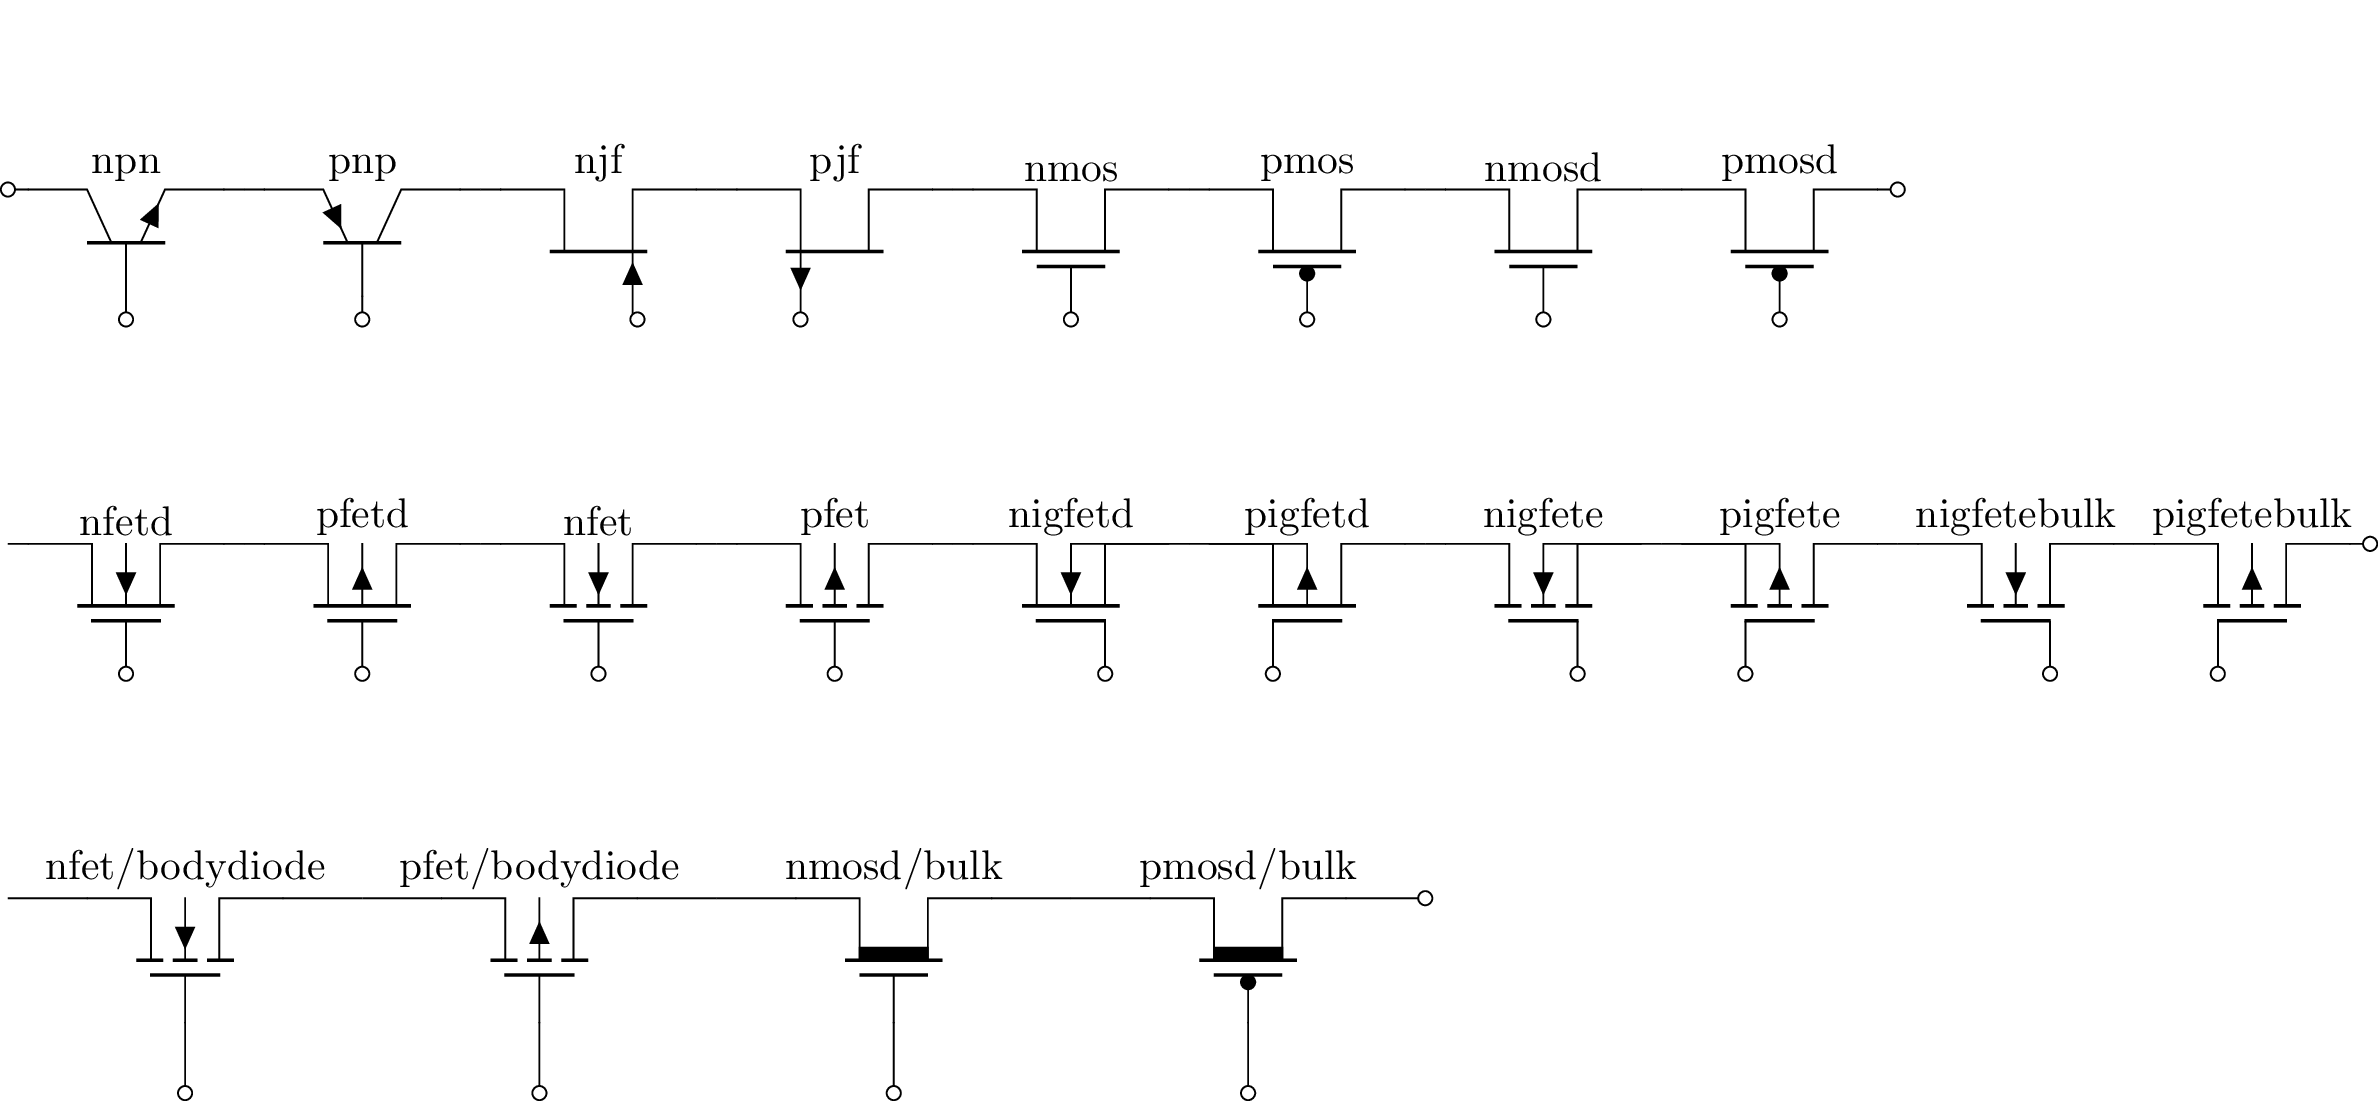
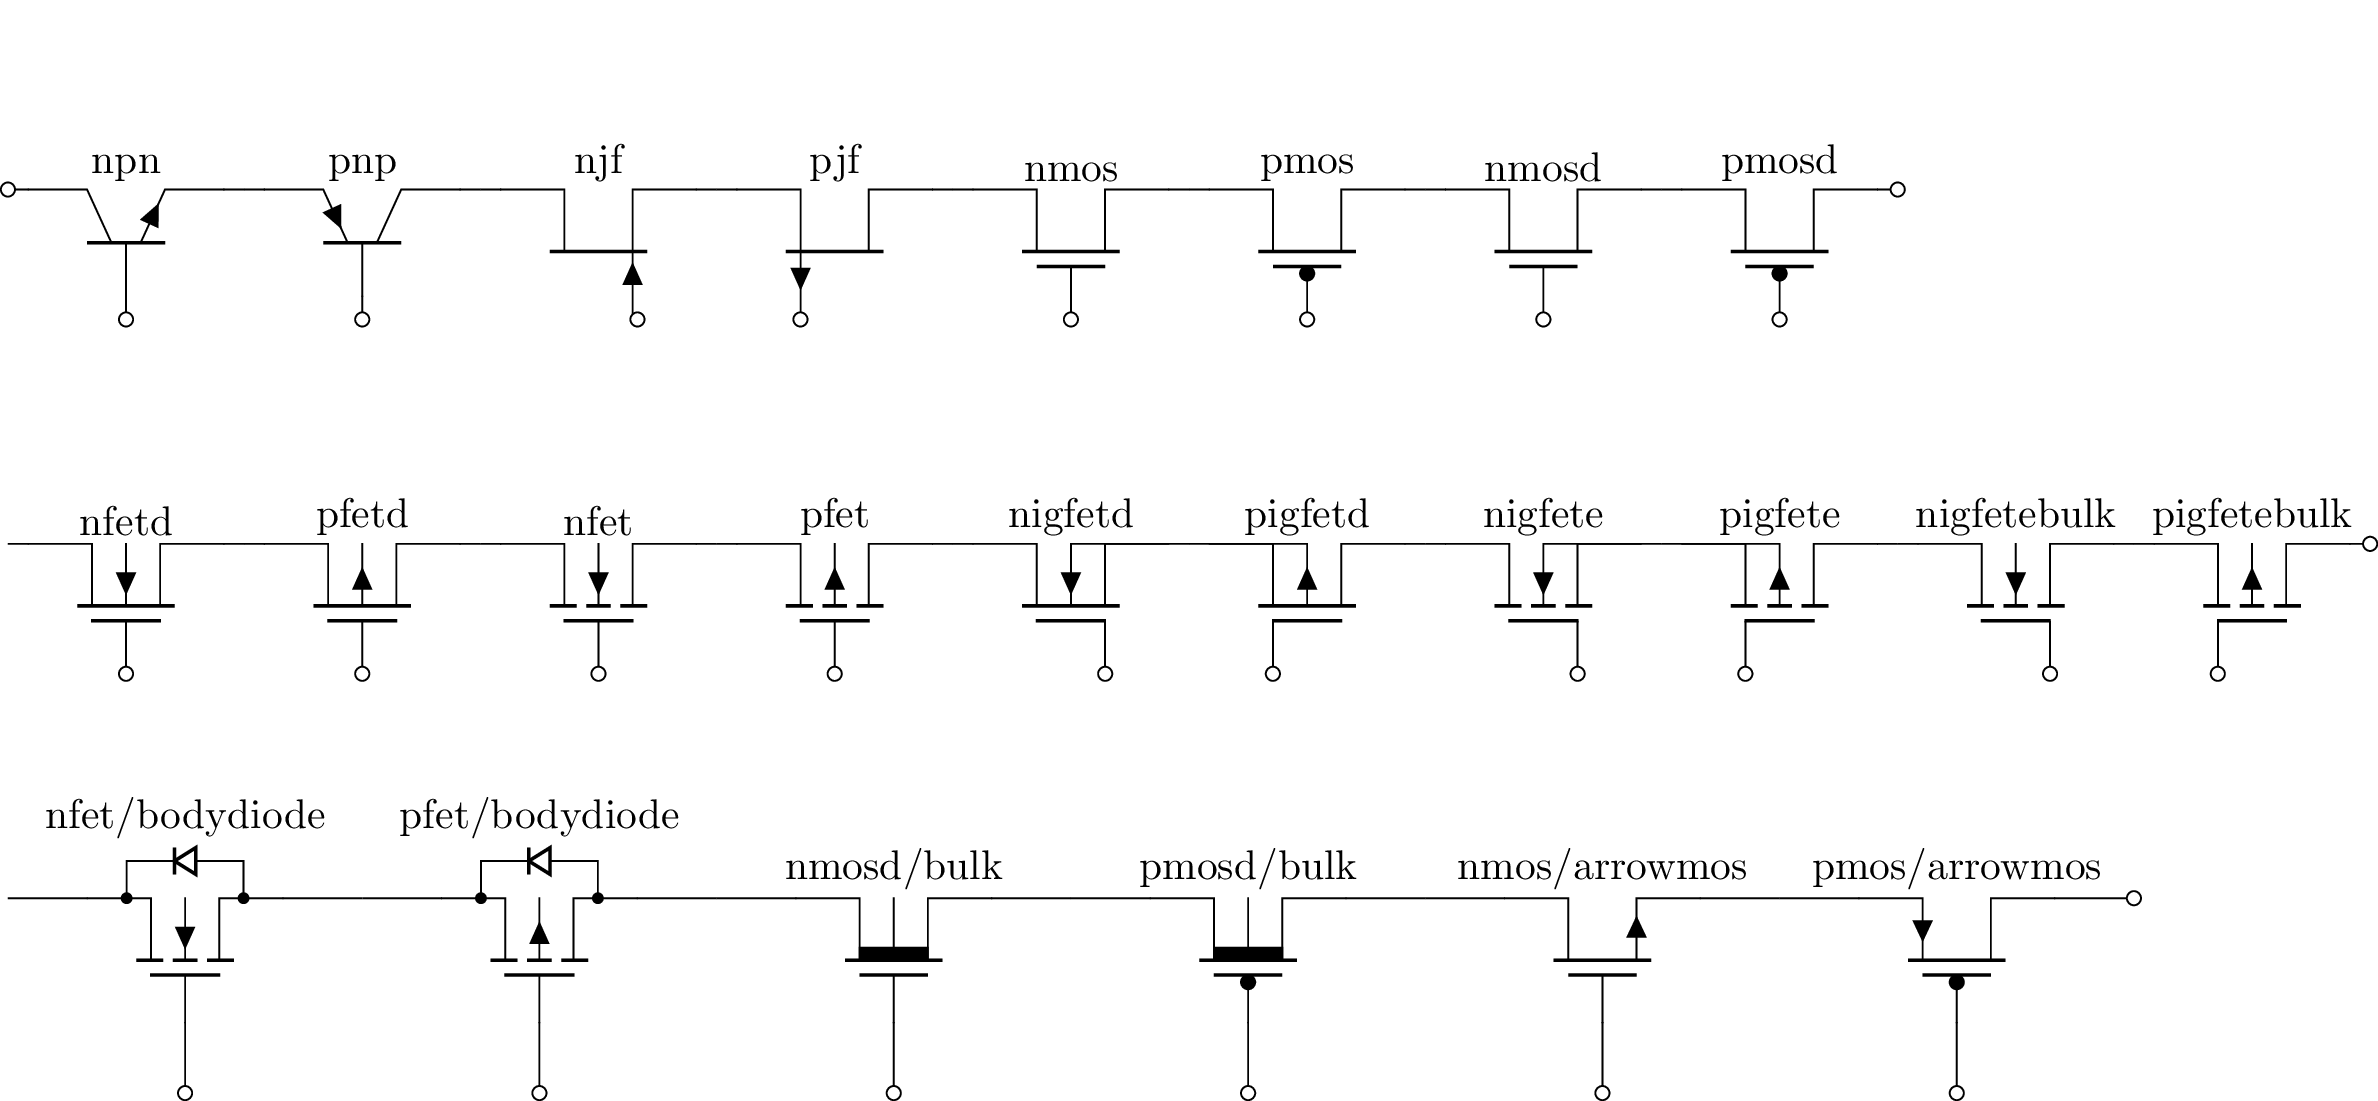
Support arrowmos #141

diff --git a/lcapy/schematics/components/transistor.py b/lcapy/schematics/components/transistor.py
@@ -70,14 +70,14 @@ class Transistor(FixedCpt):
         label = self.label_tweak(label, xscale, yscale, self.angle)
 
         s = r'  \draw (%s) node[%s, %s, xscale=%s, yscale=%s, rotate=%d] (%s) {%s};''\n' % (
-            centre, cpt, self.draw_args_str(**kwargs), xscale, yscale,
+            centre, cpt, self.cpt_args_str(**kwargs), xscale, yscale,
             self.angle, self.s, label)
 
         # Add additional wires.  These help to compensate for the
         # slight differences in sizes of the different transistors.
         if self.tikz_cpt in ('pnp', 'npn'):
             s += r'  \draw[%s] (%s.C) -- (%s) (%s.B) -- (%s) (%s.E) -- (%s);''\n' % (
-                self.draw_args_str(**kwargs), self.s, n1.s, self.s, n2.s, self.s, n3.s)
+                self.cpt_args_str(**kwargs), self.s, n1.s, self.s, n2.s, self.s, n3.s)
         else:
             s += r'  \draw (%s.D) -- (%s) (%s.G) -- (%s) (%s.S) -- (%s);''\n' % (
                 self.s, n1.s, self.s, n2.s, self.s, n3.s)

diff --git a/doc/schematics.rst b/doc/schematics.rst
@@ -825,7 +825,7 @@ MOSFET transistors have the following attributes:
 
 - `bodydiode`
 
-- `arrow`
+- `arrowmos`
 
 - `ferroel gate` ferroelectric gate
 
